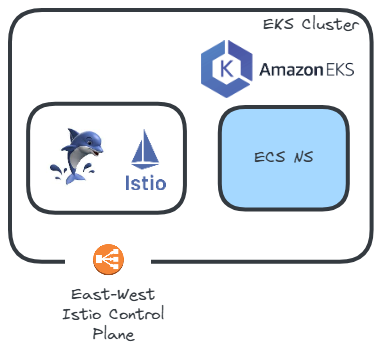
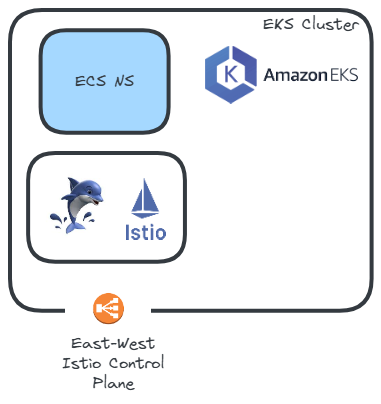
Demo rework

diff --git a/README.md b/README.md
@@ -21,40 +21,10 @@ export NODE_TYPE="t2.medium"       # The instance type for the nodes in the EKS 
 
 ## Create Cluster with `eksctl` Using Inline YAML
 
-Rather than creating a configuration file on your filesystem, you can pass the configuration directly as an inline YAML block. This approach saves time and allows you to define your cluster parameters in a single command.
+Populate the prepared temaplate with your current values and pass it to `eksctl` to create an AWS EKS cluster for Istio Ambient ECS demo.
 
 ```bash
-eksctl create cluster --config-file - << EOF
-apiVersion: eksctl.io/v1alpha5
-kind: ClusterConfig
-
-metadata:
-  name: ${CLUSTER_NAME}
-  region: ${AWS_REGION}
-  version: "${EKS_VERSION}"
-  tags:
-    owner: ${OWNER_NAME}
-
-addons:
-  - name: vpc-cni                            # Addon to enable networking for the cluster
-  - name: eks-pod-identity-agent             # Enables pod identity management for ECS workloads
-
-iam:
-  withOIDC: true                             # Required to use IAM roles for service accounts
-  podIdentityAssociations:
-    - namespace: istio-system                # Namespace for Istio control plane
-      serviceAccountName: istiod             # Istio's control plane service account
-      roleName: istiod-eks-ecs-${CLUSTER_NAME}  # Custom IAM role for Istio control plane with ECS access
-      permissionPolicyARNs: [arn:aws:iam::aws:policy/AmazonECS_FullAccess]
-
-managedNodeGroups:
-  - name: managed-nodes
-    instanceType: ${NODE_TYPE}               # Instance type defined in variables
-    desiredCapacity: ${NUMBER_NODES}         # Number of nodes to create
-    privateNetworking: true                  # Ensure nodes are launched within private subnets
-    updateConfig:
-      maxUnavailable: 2                      # Number of nodes that can be updated at the same time
-EOF
+eval "echo \"$(cat manifests/eks-cluster.yaml)\"" | eksctl create cluster --config-file -
 ```
 
 ## Deploy Kubernetes Gateway API CRDs
@@ -188,12 +158,11 @@ By now EKS Cluster with Isto in Ambient mode is installed and ready to be used.
 
 Following AWS best security practices and to avoid manual BOOTSTRAP token exchanged, an ECS Task Role will be created in AWS IAM, which `istioctl` will use. If the role already exists, the script will proceed without making changes. If the role does not exist, the script will create it.
 
-Additionally, this script ensures the ECS Task has an **execution role** allowing it to write to **CloudWatch Logs**. This role is necessary for ECS tasks to send logs to CloudWatch.
-
 The script will check if the ECS Task Role exists in your AWS account and if the Role is not present, it will:
-  - Create an IAM policy with the necessary permissions.
-  - Create an IAM role.
-  - Assign the newly created permissions to the newly created IAM role.
+
+- Create an IAM policy with the necessary permissions.
+- Create an IAM role.
+- Assign the newly created permissions to the newly created IAM role.
 
 Additionally the script will **Export the ARNs of the roles (whether created or pre-existing)** as environment variables for use in the subsequent steps.
 
@@ -210,12 +179,9 @@ Expected output:
 ```output
 $ source scripts/build/create-iam.sh
 Creating task role...
-TASK_ROLE_ARN exported: arn:aws:iam::835335437537:role/ecs/ambient/eks-ecs-task-role
+TASK_ROLE_ARN exported: arn:aws:iam::012345678912:role/ecs/ambient/eks-ecs-task-role
 Creating task policy...
-TASK_POLICY_ARN exported: arn:aws:iam::835335437537:policy/ecs/ambient/eks-ecs-task-policy
-Creating execution role...
-EXECUTION_ROLE_ARN exported: arn:aws:iam::835335437537:role/ecs/ambient/ecs-task-execution-role
-Task role and execution role are ready.
+Task role is ready.
 ```
 
 ## Create Namespace for ECS
@@ -223,13 +189,21 @@ Task role and execution role are ready.
 In this step, we create a new namespace in Kubernetes called `ecs`, which will be used to store configuration objects related to ECS workloads (such as `WorkloadEntries` and `ServiceEntries`).
 
 ```bash
-export ECS_NS=ecs  # This namespace is required for the demo to work
-export ECS_SERVICE_ACCOUNT_NAME=demo  # This service account name is required for the demo
+export ECS_NS=ecs                            # This namespace is required for the demo to work
+export ECS_SERVICE_ACCOUNT_NAME=ecs-demo-sa  # This service account name is required for the demo
 
 kubectl create ns ${ECS_NS}
 kubectl label namespace ${ECS_NS} istio.io/dataplane-mode=ambient
 kubectl create sa $ECS_SERVICE_ACCOUNT_NAME -n $ECS_NS
-kubectl -n $ECS_NS annotate sa $ECS_SERVICE_ACCOUNT_NAME ecs.solo.io/role-arn=$(echo $TASK_ROLE_ARN | sed 's/\/ecs\/ambient//') --overwrite
+kubectl -n $ECS_NS annotate sa $ECS_SERVICE_ACCOUNT_NAME ecs.solo.io/role-arn=$(echo $TASK_ROLE_ARN | sed 's/\/ecs\/ambient//')
+```
+Expected output:
+
+```output
+namespace/ecs created
+namespace/ecs labeled
+serviceaccount/ecs-demo-sa created
+serviceaccount/ecs-demo-sa annotated
 ```
 
 ## Enable Istiod to Accept Calls from ECS
@@ -269,7 +243,7 @@ ECS services script is completed.
 
 ## Add ECS Service to Istio
 
-This can be done with istioctl:
+In this step, ECS are added to the Istio service mesh. `istioctl` command bootstrap the ECS service with required secrets, configuration, and permissions to communicate with the Istio control plane.
 
 ```bash
 ./istioctl ecs add-service shell-task --cluster ecs-$CLUSTER_NAME --namespace $ECS_NS
@@ -284,22 +258,26 @@ the expected output:
 • Fetching Istiod URL...
   • Service "eastwest" provides Istiod access on port 15012
 • Fetching Istiod URL (https://ae9f1c4f873dc465a9edd7b81d09c40a-1856501301.us-west-1.elb.amazonaws.com:15012)
-• Workload is authorized to run as role "arn:aws:iam::835335437537:role/ecs/ambient/eks-ecs-task-role"
-• Created task definition arn:aws:ecs:us-west-1:835335437537:task-definition/shell-task-definition:37
-• Successfully enrolled service "shell-task" (arn:aws:ecs:us-west-1:835335437537:service/ecs-demo-ztunnel-0/shell-task) to the mesh
+• Workload is authorized to run as role "arn:aws:iam::012345678912:role/ecs/ambient/eks-ecs-task-role"
+• Created task definition arn:aws:ecs:us-west-1:012345678912:task-definition/shell-task-definition:37
+• Successfully enrolled service "shell-task" (arn:aws:ecs:us-west-1:012345678912:service/ecs-demo-ztunnel-0/shell-task) to the mesh
 • Generating a bootstrap token for ecs/default...
 • Fetched Istiod Root Cert
 • Fetching Istiod URL...
   • Service "eastwest" provides Istiod access on port 15012
 • Fetching Istiod URL (https://ae9f1c4f873dc465a9edd7b81d09c40a-1856501301.us-west-1.elb.amazonaws.com:15012)
-• Workload is authorized to run as role "arn:aws:iam::835335437537:role/ecs/ambient/eks-ecs-task-role"
-• Created task definition arn:aws:ecs:us-west-1:835335437537:task-definition/echo-service-definition:19
-• Successfully enrolled service "echo-service" (arn:aws:ecs:us-west-1:835335437537:service/ecs-demo-ztunnel-0/echo-service) to the mesh
+• Workload is authorized to run as role "arn:aws:iam::012345678912:role/ecs/ambient/eks-ecs-task-role"
+• Created task definition arn:aws:ecs:us-west-1:012345678912:task-definition/echo-service-definition:19
+• Successfully enrolled service "echo-service" (arn:aws:ecs:us-west-1:012345678912:service/ecs-demo-ztunnel-0/echo-service) to the mesh
 ```
+
+Now the demo setup looks like this. ECS Services are added to the Istio Ambient Mesh:
+
+![EKS Cluster with ECS Services added to Istio Ambient Mesh](img/state-3.png)
 
 ## Deploy Test Pods in the EKS Cluster
 
-To test the setup, deploy shell and echo applications in the EKS cluster to ensure everything is functioning properly:
+To test the setup, deploy `shell` and `echo` applications in the default namespace of the previously created EKS cluster:
 
 ```bash
 # Label the default namespace with ambient mode
@@ -310,12 +288,14 @@ kubectl apply -f manifests/eks-echo.yaml
 kubectl apply -f manifests/eks-shell.yaml
 ```
 
-These commands will deploy the test pods in your EKS cluster to verify that the integration between ECS and Istio is working correctly.
+Now the demo setup is complete and looks like this:
+
+![EKS Cluster with ECS Services and EKS Pods](img/state-4.png)
 
 ## Test EKS to ECS Communication
 
 In this step, you will verify that EKS pods can communicate with ECS services
-by making HTTP requests from an EKS pod to services running both in EKS and ECS.
+by making HTTP requests from an EKS pod to services running on EKS and ECS platform.
 This confirms that the setup between EKS and ECS is functioning correctly.
 
 Verify that EKS pods can communicate with ECS services:
@@ -362,21 +342,19 @@ RequestHeader=User-Agent:curl/8.10.1
 Hostname=ip-192-168-79-89.us-west-2.compute.internal
 ```
 
+The diagram below demonstrates the flow of communication that was tested in this step:
+
+![EKS to EKS and ECS Communication](img/test-from-eks.png)
+
 ## Test ECS to EKS Communication
-
-To test connectivity from ECS to EKS, you first need to grant access to the EKS services from ECS by modifying the security groups. Then, you can run a script to verify communication between ECS and EKS workloads.
-
-### Grant Access to EKS Services from ECS
 
 For this demo, the security group settings are opened wide to simplify testing and ensure connectivity between ECS and EKS workloads. However, in a real-world deployment, **security groups should be configured more tightly** to restrict access based on specific CIDR ranges, protocols, and ports. Limiting access helps to maintain security and prevent unwanted traffic between ECS and EKS environments.
 
 ## Run the Test Script
 
-After setting up the security groups, run the test script to demonstrate the communication between ECS and EKS workloads.
+Run the test script to demonstrate the communication between ECS and EKS workloads. The provided test script reads a list of curl commands from a file (in this case, `tests/ecs-test-commands.txt`) and executes each command on the ECS container using the `aws ecs execute-command` functionality. All traffic between ECS and EKS workloads is secured with mTLS, ensuring that it is encrypted, verified, and routed through the Istio ztunnel.
 
-The test script reads a list of curl commands from a file (in this case, tests/ecs-test-commands.txt) and executes each command on the ECS container using the AWS ecs execute-command functionality. All traffic between ECS and EKS workloads is secured with mTLS, ensuring that it is encrypted, verified, and routed through the Istio ztunnel.
-
-Run the Test Script: The script takes the file as input and executes each command sequentially on the ECS task.
+Run the Test Script: The script takes the file as input and executes each command sequentially on the ECS task, this tests ensures that calls from ECS contrainer can reach EKS, ECS and an externally hosted service.
 
 ```bash
 scripts/test/call-from-ecs.sh tests/ecs-test-commands.txt
@@ -426,9 +404,13 @@ Access-Control-Allow-Origin: *
 Access-Control-Allow-Credentials: true
 ```
 
+The diagram below demonstrates the flow of communication that was tested in this step:
+
+![ECS to ECS, EKS, and External Service Communication](img/test-from-ecs.png)
+
 ## Advanced Use-Cases
 
-For testing connectivity from ECS, we will use the `call-from-ecs.sh` script. This script finds the ECS tasks running the `shell` container in the ECS cluster created by Terraform and executes `curl` commands provided in a text file. The script automates the process of sending requests to different services in the cluster, allowing you to validate connectivity and communication based on the specified parameters.
+For testing connectivity from ECS, we will continue using the `call-from-ecs.sh` script. This script finds the ECS tasks running the `shell` container in the ECS cluster created earlier and executes `curl` commands to the targets listed in the text file. The script allows you to validate connectivity and communication.
 
 ### Layer 4 Policies for EKS Workloads
 
@@ -459,6 +441,10 @@ Finally, test if **EKS to ECS communication** still **succeeds** as no policy is
 ```bash
 kubectl exec -it $(kubectl get pods -l app=eks-shell -o jsonpath="{.items[0].metadata.name}") -- curl echo-service.ecs.local:8080
 ```
+
+Below is a diagram illustrating the flow of communication that was tested in this step:
+
+![Calls are denied to EKS workloads](img/test-eks-deny.png)
 
 ### Layer 4 Policies for ECS Workloads
 
@@ -491,18 +477,22 @@ Finally, test if **EKS to ECS communication** is now **blocked** by the policy f
 kubectl exec -it $(kubectl get pods -l app=eks-shell -o jsonpath="{.items[0].metadata.name}") -- curl echo-service.ecs.local:8080
 ```
 
+Below is a diagram illustrating the flow of communication that was tested in this step:
+
+![Calls are denied to ECS workloads](img/test-ecs-deny.png)
+
 ### Layer 7 Policies
 
 For clarity, remove the previous policy:
 
 ```bash
-kubectl delete -n ecs authorizationpolicies ecs-deny-all
+kubectl delete -n $ECS_NS authorizationpolicies ecs-deny-all
 ```
 
 Now, enable the Waypoint proxy in the ECS namespace:
 
 ```bash
-./istioctl waypoint apply -n ecs --enroll-namespace
+./istioctl waypoint apply -n $ECS_NS --enroll-namespace
 ```
 
 Apply an L7 policy to allow only **POST** operations:
@@ -526,6 +516,10 @@ kubectl exec -it $(kubectl get pods -l app=eks-shell -o jsonpath="{.items[0].met
 scripts/test/call-from-ecs.sh tests/ecs-to-ecs-get.txt
 kubectl exec -it $(kubectl get pods -l app=eks-shell -o jsonpath="{.items[0].metadata.name}") -- curl -X GET echo-service.ecs.local:8080
 ```
+
+The diagram below illustrates L7 Policy implementation via Waypoint Proxy with applied L7 Authorization Policy:
+
+![Waypoint L7 Policy testing](img/test-l7-post-deny.png)
 
 To reset the environment, delete the L7 policy:
 
